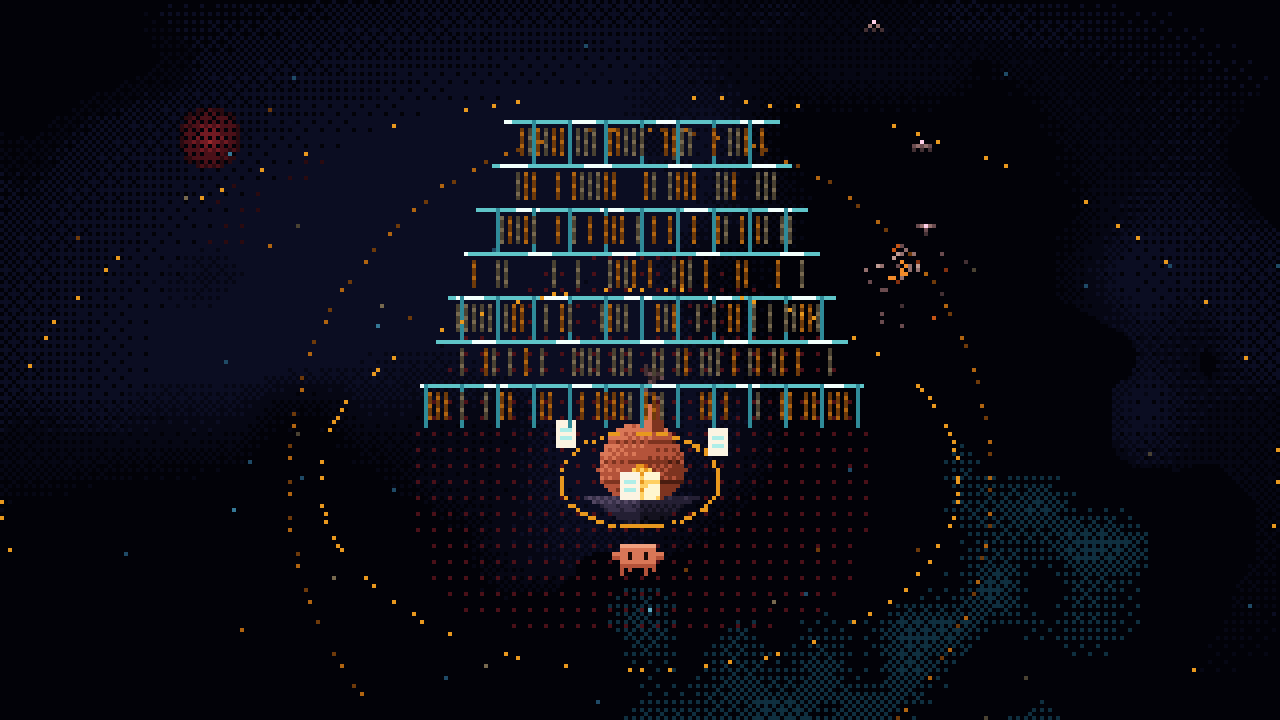
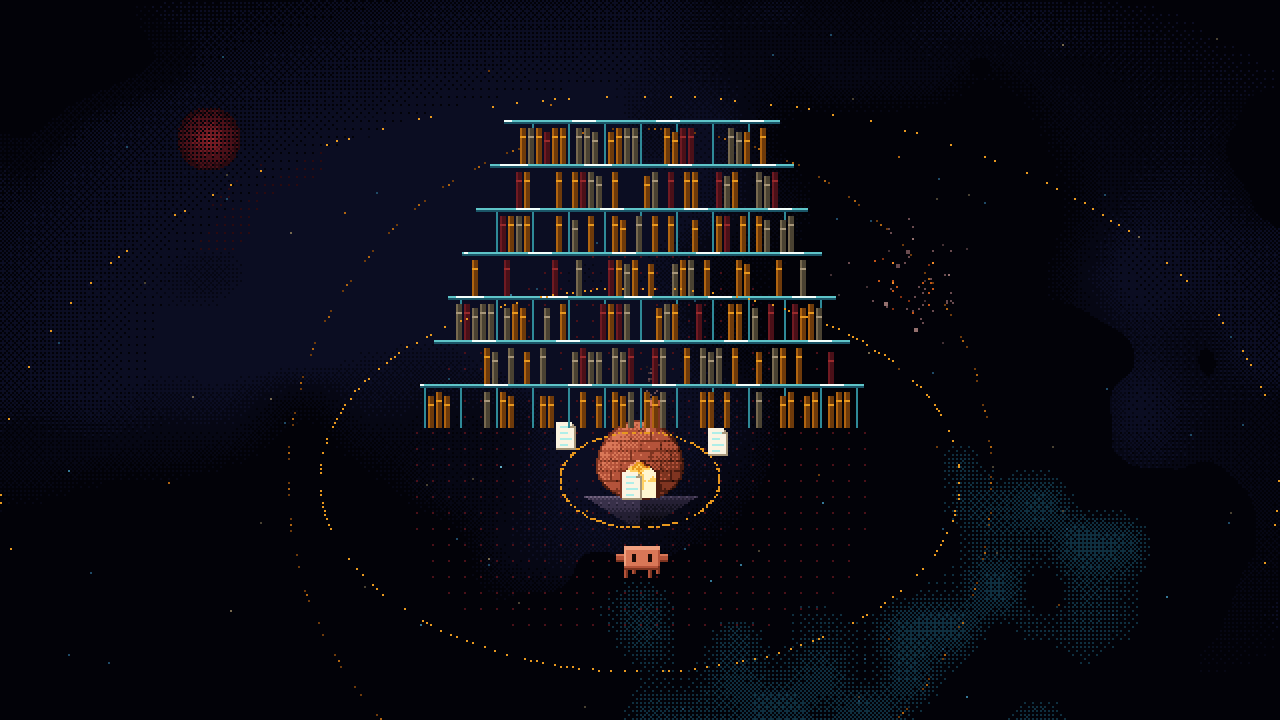
更新 README 和截图；工坊底部提示不再压边框
Claude-Session: https://claude.ai/code/session_01VqbkzXVxhidVhkjP4aaanR

diff --git a/README.md b/README.md
@@ -64,7 +64,8 @@ godot --path .
 ## 目前进度
 
 网页原型的玩法已经全部移植到 Godot：
-- 320×180 像素画面，整数倍放大，像素不会糊
+- 640×360 精细像素画面（原型的两倍精细），整数倍放大不会糊，并且铺满整个窗口不留黑边
+- 进度自动存档：升级、字、书页、信标都会记住，下次打开可以「继续旅程」
 - 移动、冲刺、射击；小行星逐像素可打碎，带实时光照
 - 体温、炉灯暖圈、暗潮循环（150 秒一轮）、冻伤与死亡重生
 - 炉灯工坊 6 种升级：信标、炉火、字弹、陶壳、保温釉、喷气孔
@@ -81,17 +82,17 @@ godot --path .
 ## 文件说明
 
 ```
-project.godot         Godot 项目配置（像素完美设置都在这里）
+project.godot         Godot 项目配置
 main.tscn             主场景
 scripts/game.gd       入口：搭场景、输入、主循环、自动试玩
 scripts/game_hud.gd   界面：状态栏、工坊、句子面板、图鉴、标题、结局
-scripts/game_art.gd   世界里的像素绘制：炉灯、生物、子弹、小克
+scripts/game_art.gd   世界里的像素绘制：炉灯、生物、子弹、小克（先烤成小贴图再贴）
 scripts/game_state.gd 玩法逻辑：世界生成、玩家、生物、字句构筑、子弹、存档
 data/words.json       字句构筑的数据表
 scripts/rock.gd       可破坏的小行星
 scripts/pal.gd        调色板、抖动矩阵、噪声
 scripts/sfx.gd        程序化音效
-shaders/              远景、小行星打光、暗潮压暗
+shaders/              远景、小行星打光、精灵查色板、暗潮压暗
 prototype/            最初的网页原型
 ```
 
@@ -102,6 +103,13 @@ godot --path . -- --autoplay
 ```
 
 会自动开始游戏、乱飞乱打，并把几张截图存到 Godot 的用户数据文件夹，然后自动退出。
+
+另外两个测试开关：
+
+```bash
+godot --path . -- --autoplay --gallery   # 把八种生物摆在炉灯旁拍一张“全家福”
+godot --path . -- --bot --bot-secs=900   # 机器人快进乱玩 15 分钟，用来揪运行时报错
+```
 
 ## 发布网页版
 
